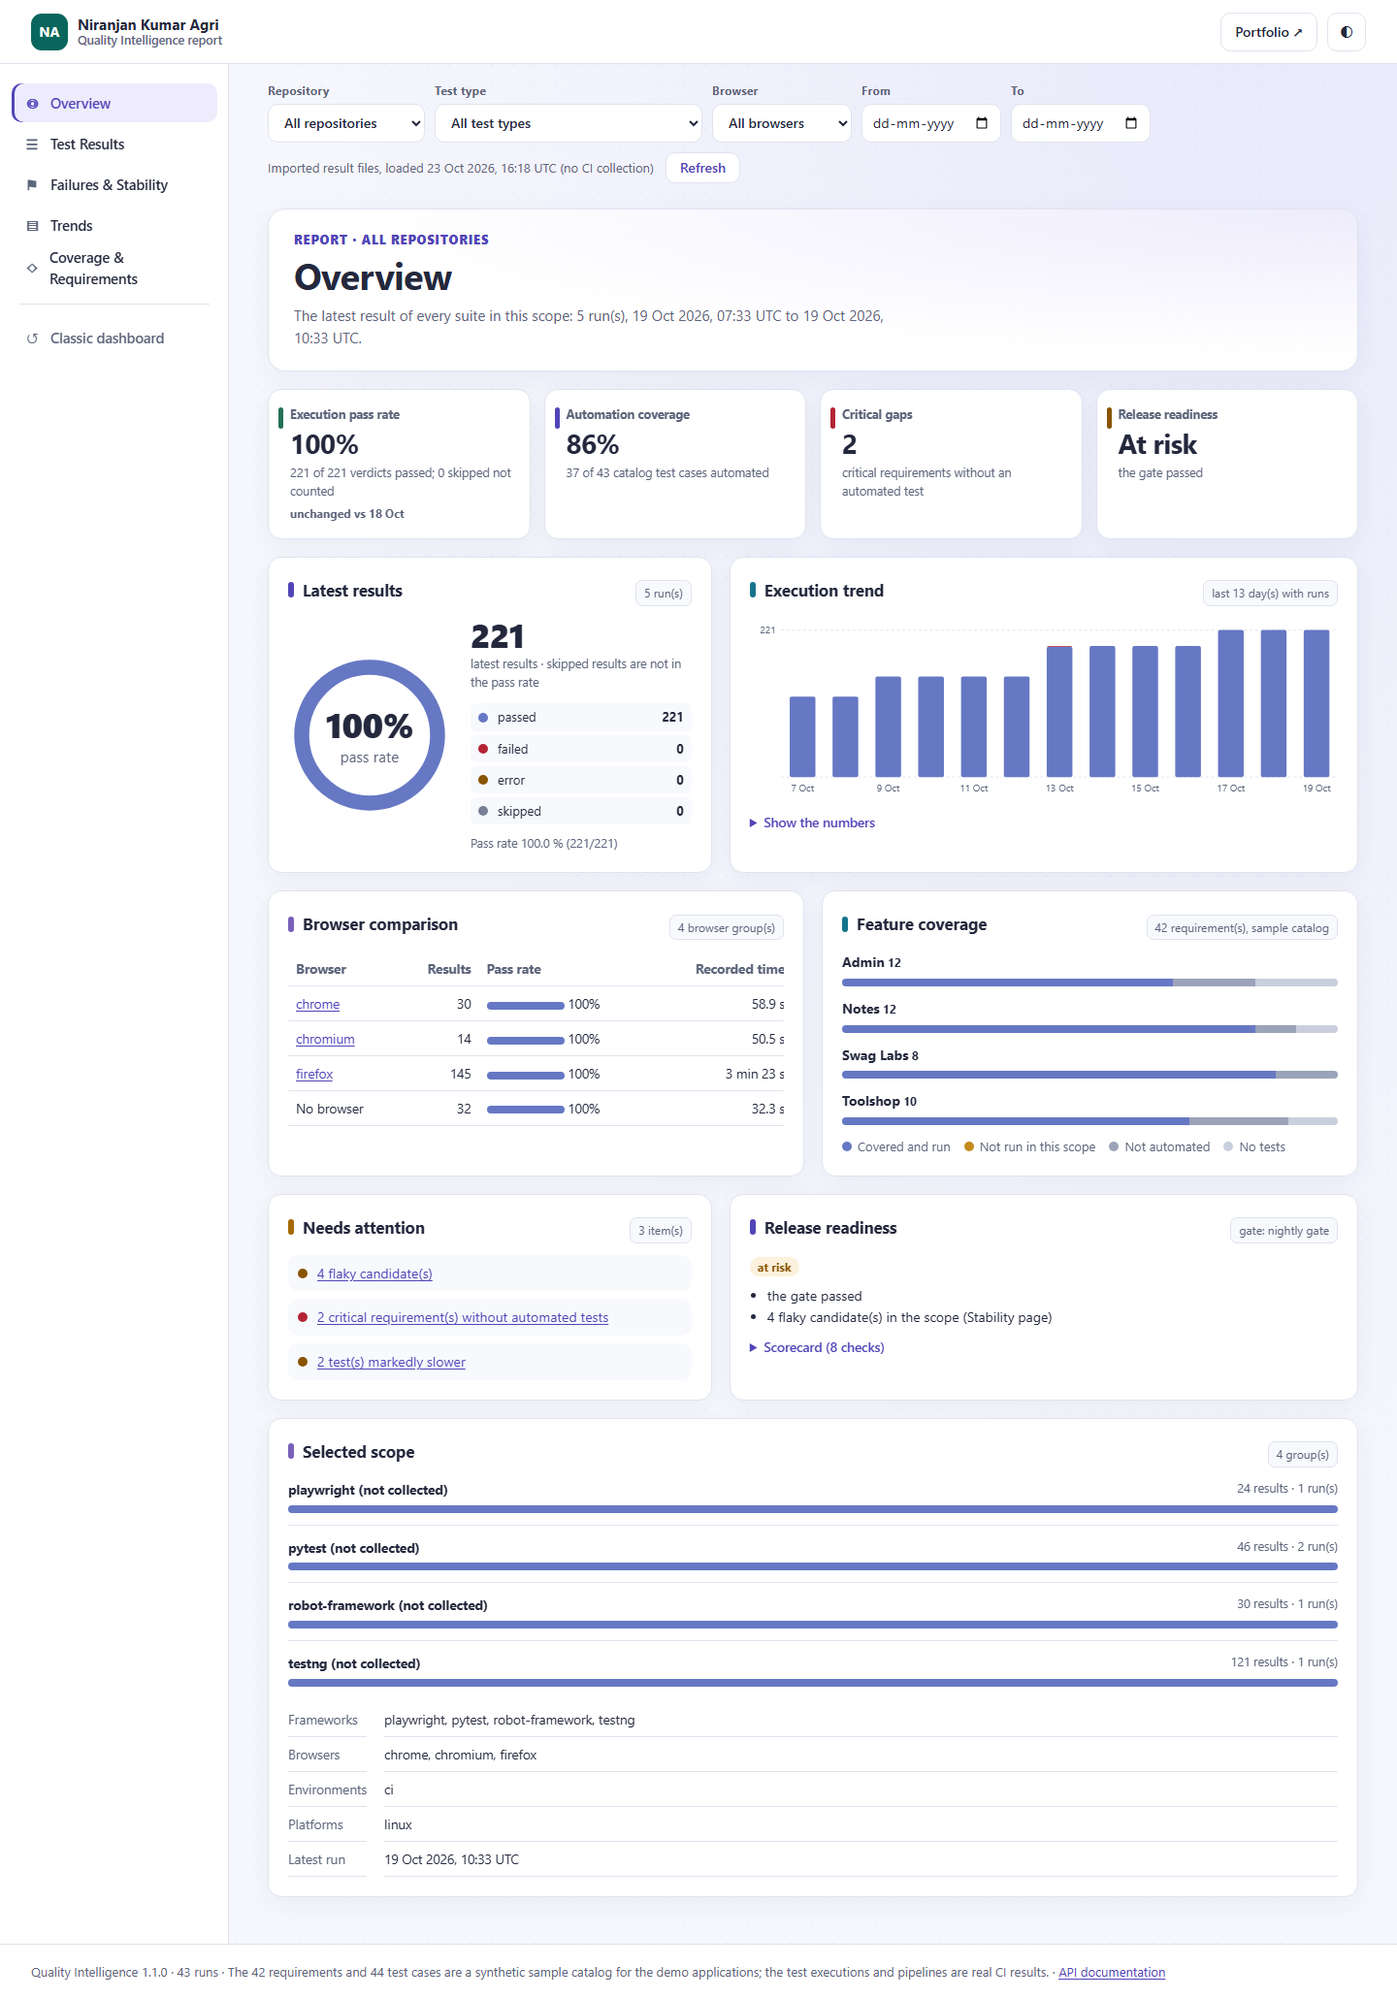
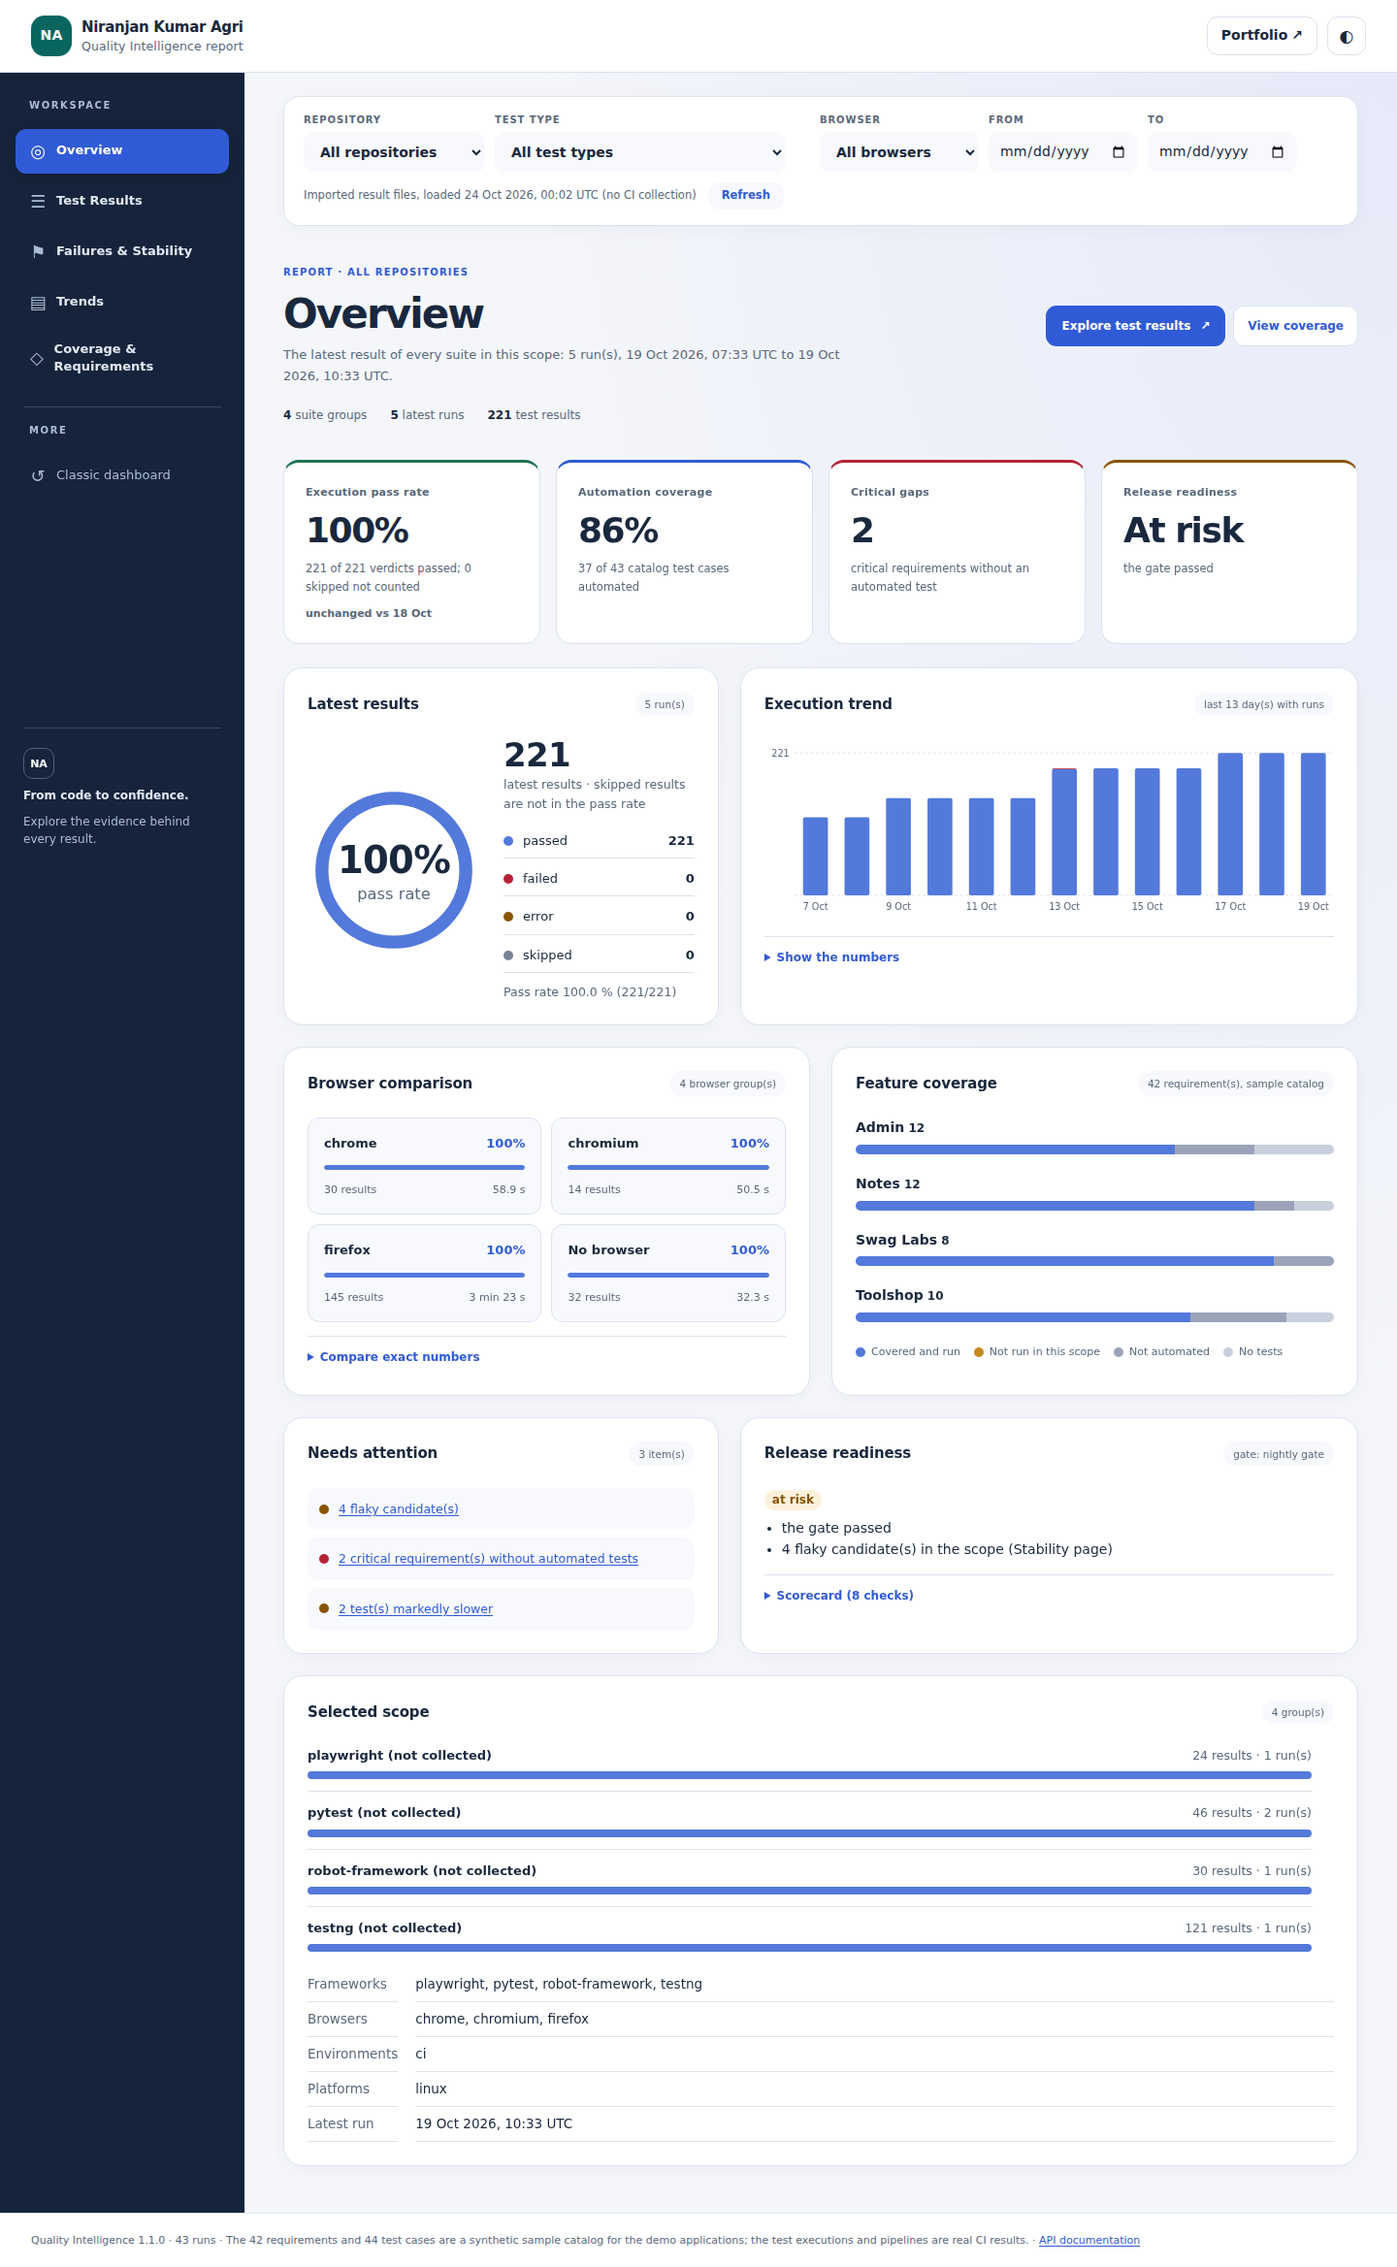
Refresh report workspace design and visual browser exploration

diff --git a/src/qualityintel/dashboard/static/next/report.css b/src/qualityintel/dashboard/static/next/report.css
@@ -418,3 +418,123 @@ pre.evidence { border: 1px solid var(--line); border-radius: var(--radius); }
   .skeleton { animation: shimmer 1.2s linear infinite; }
 }
 @keyframes shimmer { from { background-position: 200% 0; } to { background-position: -200% 0; } }
+
+/* ---- Workspace design: quiet surfaces, a navy rail and a clear reading order ---- */
+:root {
+  --bg: #f4f6fa; --ink: #19283d; --muted: #59687b; --line: #dce3ed;
+  --accent: #315bd6; --accent-soft: #edf2ff; --accent-line: #acbff5;
+  --chart-passed: #5379db; --cov-covered: #5379db;
+  --radius: 11px; --radius-lg: 20px; --gap: 22px; --pad: 24px;
+  --shadow: 0 4px 18px rgba(25, 40, 61, .035);
+  --rail: #15243b; --rail-ink: #e1e8f4; --rail-muted: #aabbd2;
+}
+body { background: radial-gradient(ellipse at 100% 0, var(--glow), transparent 45%), var(--bg); }
+.topbar { min-height: 74px; padding-block: 16px; }
+.brand { letter-spacing: -.02em; }
+.brand-mark { width: 42px; height: 42px; border-radius: 14px; }
+.brand-sub { margin-top: 3px; letter-spacing: .01em; }
+.layout { grid-template-columns: 252px minmax(0, 1fr); background: linear-gradient(to right, var(--rail) 252px, transparent 252px); min-height: calc(100vh - 74px); }
+.sidebar { top: 74px; height: calc(100vh - 74px); padding: 26px 16px; gap: 6px; }
+.nav-caption { color: var(--rail-muted); font-size: 10px; letter-spacing: .16em; font-weight: 750; padding: 0 14px 10px; }
+.sidebar a { color: var(--rail-ink); padding: 10px 14px; min-height: 46px; font-size: 13px; line-height: 1.4; }
+.sidebar a:hover { background: #223650; }
+.sidebar a[aria-current="page"] { color: #fff; background: #315bd6; box-shadow: 0 4px 16px rgba(0, 0, 0, .12); }
+.sidebar .nav-icon { color: var(--rail-muted); font-size: 18px; }
+.sidebar a[aria-current="page"] .nav-icon { color: #fff; }
+.sidebar .sidebar-quiet { color: var(--rail-muted); }
+.sidebar-rule { background: #34465f; margin-block: 16px 10px; }
+.sidebar-note { margin: auto 8px 0; padding: 20px 0 0; border-top: 1px solid #34465f; display: grid; gap: 8px; color: var(--rail-muted); font-size: 12px; }
+.sidebar-note strong { color: var(--rail-ink); font-size: 12px; }
+.sidebar-note-mark { display: grid; place-items: center; width: 32px; height: 32px; border: 1px solid #52617a; border-radius: 10px; font-size: 11px; font-weight: 750; color: #fff; }
+.sidebar { grid-template-rows: auto repeat(5, min-content) auto auto auto 1fr; }
+.sidebar-note { align-self: end; }
+.filterbar { margin: 24px clamp(16px, 3vw, 40px) 20px; padding: 16px 20px; border: 1px solid var(--line); border-radius: 16px; background: var(--surface); box-shadow: var(--shadow); }
+.field-label { font-size: 10px; text-transform: uppercase; letter-spacing: .09em; }
+.field select, .field input { background: var(--surface-3); border-color: transparent; min-height: 42px; }
+.field select:focus-visible, .field input:focus-visible { border-color: var(--accent); }
+.freshness { font-size: 11.5px; }
+.freshness .button-quiet { min-height: 28px; font-size: 11.5px; border: 0; background: var(--surface-3); }
+.report-heading { box-shadow: none; border: 0; background: none; padding: 8px 0 18px; margin-bottom: 4px; }
+.eyebrow { font-size: 10px; letter-spacing: .12em; margin-bottom: 12px; }
+h1 { font-size: clamp(28px, 3.1vw, 42px); letter-spacing: -.045em; }
+.report-heading .lead { font-size: 13px; line-height: 1.7; max-width: 70ch; }
+.overview-heading { display: grid; grid-template-columns: minmax(0, 1fr) auto; align-items: center; gap: 20px; }
+.hero-actions { display: flex; flex-wrap: wrap; gap: 8px; }
+.hero-actions .button, .hero-actions .button-quiet { min-height: 42px; font-size: 12px; }
+.hero-actions .button { gap: 10px; }
+.snapshot-strip { grid-column: 1 / -1; display: flex; flex-wrap: wrap; gap: 10px 24px; padding-bottom: 14px; color: var(--muted); font-size: 12px; }
+.snapshot-strip strong { color: var(--ink); font-variant-numeric: tabular-nums; }
+.kpis { gap: 16px; margin-bottom: 24px; }
+.kpi { padding: 22px; gap: 10px; border-radius: 16px; box-shadow: none; border-top: 3px solid var(--tone, var(--accent)); }
+.kpi::before { display: none; }
+.kpi-value { font-size: clamp(26px, 2.5vw, 36px); letter-spacing: -.04em; }
+.kpi-label { font-size: 11px; letter-spacing: .025em; }
+.kpi-sub { font-size: 11.5px; line-height: 1.6; }
+.kpi-change { font-size: 11px; }
+.card-head { align-items: center; margin-bottom: 22px; }
+.card-head h2 { font-size: 15px; }
+.card-head h2::before { display: none; }
+.card-head .meta { font-size: 10.5px; background: var(--surface-3); border: 0; border-radius: 999px; padding: 5px 10px; }
+.summary { gap: 24px; }
+.ring { width: 178px; height: 178px; }
+.ring circle { stroke-width: 9; }
+.legend li a { background: none; border-bottom: 1px solid var(--line); border-radius: 0; padding: 7px 0; }
+.legend li a:hover { background: var(--accent-soft); }
+.browser-cards { display: grid; grid-template-columns: repeat(2, minmax(0, 1fr)); gap: 10px; }
+.browser-card { display: grid; gap: 12px; align-content: start; padding: 16px; border: 1px solid var(--line); background: var(--surface-3); border-radius: 12px; text-decoration: none; color: var(--ink); min-width: 0; }
+a.browser-card:hover { border-color: var(--accent-line); background: var(--accent-soft); }
+.browser-card-top, .browser-card-meta { display: flex; flex-wrap: wrap; justify-content: space-between; gap: 4px 12px; }
+.browser-card-top { font-size: 13px; }
+.browser-rate { font-weight: 750; color: var(--accent); }
+.browser-card-meta { font-size: 11px; color: var(--muted); font-variant-numeric: tabular-nums; }
+.browser-progress { display: block; height: 5px; background: var(--line); border-radius: 999px; overflow: hidden; }
+.browser-progress-fill { display: block; height: 100%; border-radius: inherit; background: var(--chart-passed); }
+details.numbers { padding-top: 12px; margin-top: 14px; border-top: 1px solid var(--line); }
+details.numbers > summary { font-size: 12px; }
+.feature-bars { gap: 20px; }
+.feature-bars .stack { height: 10px; }
+.legend-inline { margin-top: 22px; }
+.legend-inline li { font-size: 11px; }
+.attention li { padding: 12px; font-size: 12.5px; }
+.suites { max-height: 360px; overflow-y: auto; scrollbar-gutter: stable; padding-right: 8px; }
+.suite-name { font-size: 13px; }
+.footer { font-size: 11px; line-height: 1.8; }
+@media (prefers-color-scheme: dark) {
+  :root:not([data-theme="light"]) { --bg: #111b2b; --ink: #eef3fb; --muted: #b5c2d7; --line: #34445d; --accent: #adc4ff; --accent-soft: #273958; --accent-line: #657da6; --chart-passed: #91b4ff; --cov-covered: #91b4ff; --rail: #0c1524; }
+}
+:root[data-theme="dark"] { --bg: #111b2b; --ink: #eef3fb; --muted: #b5c2d7; --line: #34445d; --accent: #adc4ff; --accent-soft: #273958; --accent-line: #657da6; --chart-passed: #91b4ff; --cov-covered: #91b4ff; --rail: #0c1524; }
+@media (max-width: 1250px) {
+  .overview-heading { grid-template-columns: minmax(0, 1fr); gap: 12px; }
+}
+@media (max-width: 1100px) {
+  .summary { grid-template-columns: auto minmax(0, 1fr); }
+}
+@media (max-width: 820px) {
+  .layout { grid-template-columns: minmax(0, 1fr); background: none; }
+  .sidebar { top: 74px; height: auto; display: flex; padding: 8px 12px; background: var(--rail); border-bottom: 0; }
+  .sidebar a { min-height: 40px; padding: 8px 12px; }
+  .sidebar-note, .nav-caption { display: none; }
+  .filterbar { margin-top: 16px; }
+}
+@media (max-width: 600px) {
+  .topbar { gap: 8px; padding: 12px 16px; min-height: 74px; }
+  .brand { font-size: 12px; gap: 8px; }
+  .brand-mark { width: 34px; height: 34px; border-radius: 11px; font-size: 12px; }
+  .topbar-tools { gap: 6px; }
+  .pill-link { padding: 0 8px; font-size: 11px; }
+  .round { width: 36px; min-height: 36px; }
+  .filterbar { padding: 12px; margin-bottom: 12px; }
+  .kpis { grid-template-columns: repeat(2, minmax(0, 1fr)); gap: 10px; }
+  .kpi { padding: 14px; gap: 8px; }
+  .kpi-value { font-size: 24px; overflow-wrap: anywhere; }
+  .kpi-label { font-size: 10px; }
+  .kpi-sub { font-size: 10.5px; }
+  .kpi-change { font-size: 10px; }
+  .summary { grid-template-columns: minmax(0, 1fr); }
+  .ring { width: 160px; height: 160px; }
+  .snapshot-strip { gap: 8px 16px; font-size: 11px; }
+  .browser-cards { grid-template-columns: minmax(0, 1fr); }
+  .card { padding: 20px; }
+  .report-heading { padding: 8px 0 14px; }
+  .card-head { margin-bottom: 18px; }
+}

diff --git a/src/qualityintel/dashboard/static/next/js/overview.js b/src/qualityintel/dashboard/static/next/js/overview.js
@@ -30,13 +30,20 @@ export async function overview(state, { signal, facts }) {
     : null;
 
   return [
-    h("div", { class: "report-heading" },
+    h("div", { class: "report-heading overview-heading" },
       h("div", {},
         h("p", { class: "eyebrow" }, `Report · ${repoName(scope.repository)}${scope.kind ? ` · ${KIND_LABELS[scope.kind] ?? scope.kind}` : ""}`),
         h("h1", {}, "Overview"),
         h("p", { class: "lead" }, d.first_started_at
           ? `The latest result of every suite in this scope: ${n(d.runs)} run(s), ${formatDate(d.first_started_at)} to ${formatDate(d.latest_started_at)}.`
-          : "No dated runs in this scope."))),
+           : "No dated runs in this scope.")),
+      h("div", { class: "hero-actions" },
+        h("a", { class: "button", href: href("results", scope) }, "Explore test results", h("span", { "aria-hidden": "true" }, " ↗")),
+        h("a", { class: "button-quiet", href: href("coverage", scope) }, "View coverage")),
+      h("div", { class: "snapshot-strip", role: "group", "aria-label": "Snapshot scope" },
+        h("span", {}, h("strong", {}, n(d.suites.length)), " suite groups"),
+        h("span", {}, h("strong", {}, n(d.runs)), " latest runs"),
+        h("span", {}, h("strong", {}, n(d.total)), " test results"))),
     nothing,
     headline(d, summary, readiness, scope),
     h("div", { class: "grid" },
@@ -150,7 +157,21 @@ function trendCard(points, scope) {
 function browsersCard(browsers, scope) {
   return card("browsers-title", "Browser comparison", `${browsers.length} browser group(s)`,
     browsers.length
-      ? h("div", { class: "table-wrap" }, h("table", { class: "compare" },
+      ? [h("div", { class: "browser-cards" }, browsers.map((b) => {
+          const bar = h("span", { class: "browser-progress-fill" });
+          bar.style.width = `${b.pass_rate.percent ?? 0}%`;
+          const content = [
+            h("span", { class: "browser-card-top" }, h("strong", {}, b.browser ?? "No browser"), h("span", { class: "browser-rate" }, percent(b.pass_rate))),
+            h("span", { class: "browser-progress", "aria-hidden": "true" }, bar),
+            h("span", { class: "browser-card-meta" }, `${n(b.total)} results`, h("span", {}, b.duration_seconds === null ? "time not recorded" : clock(b.duration_seconds))),
+            b.untimed ? h("small", { class: "sub" }, `${n(b.untimed)} without recorded duration`) : null,
+          ];
+          return b.browser
+            ? h("a", { class: "browser-card", href: href("results", { ...without(scope, "browser"), browser: b.browser }), "aria-label": `${b.browser}: ${n(b.total)} results, ${percent(b.pass_rate)} pass rate` }, content)
+            : h("div", { class: "browser-card" }, content);
+        })),
+        h("details", { class: "numbers" }, h("summary", {}, "Compare exact numbers"),
+        h("div", { class: "table-wrap" }, h("table", { class: "compare" },
           h("thead", {}, h("tr", {}, h("th", {}, "Browser"), h("th", { class: "num" }, "Results"), h("th", {}, "Pass rate"), h("th", { class: "num" }, "Recorded time"))),
           h("tbody", {}, browsers.map((b) => {
             const bar = h("span", { class: "meter-fill" });
@@ -160,7 +181,7 @@ function browsersCard(browsers, scope) {
               h("td", { class: "num" }, n(b.total)),
               h("td", {}, h("span", { class: "meter" }, bar), " ", percent(b.pass_rate)),
               h("td", { class: "num" }, b.duration_seconds === null ? "not recorded" : clock(b.duration_seconds), b.untimed && b.duration_seconds !== null ? h("small", { class: "sub" }, ` (${n(b.untimed)} untimed)`) : null));
-          }))))
+          })))))]
       : emptyState("no-match"),
     { class: "span-6 accent-purple" });
 }

diff --git a/src/qualityintel/dashboard/static/next/index.html b/src/qualityintel/dashboard/static/next/index.html
@@ -25,13 +25,16 @@
   </header>
   <div class="layout">
     <nav class="sidebar" aria-label="Report sections">
+      <div class="nav-caption">WORKSPACE</div>
       <a href="#/overview" data-section="overview"><span class="nav-icon" aria-hidden="true">◎</span>Overview</a>
       <a href="#/results" data-section="results"><span class="nav-icon" aria-hidden="true">☰</span>Test Results</a>
       <a href="#/failures" data-section="failures"><span class="nav-icon" aria-hidden="true">⚑</span>Failures &amp; Stability</a>
       <a href="#/trends" data-section="trends"><span class="nav-icon" aria-hidden="true">▤</span>Trends</a>
       <a href="#/coverage" data-section="coverage"><span class="nav-icon" aria-hidden="true">◇</span>Coverage &amp; Requirements</a>
       <span class="sidebar-rule" role="presentation"></span>
+      <div class="nav-caption">MORE</div>
       <a href="/" class="sidebar-quiet"><span class="nav-icon" aria-hidden="true">↺</span>Classic dashboard</a>
+      <div class="sidebar-note"><span class="sidebar-note-mark" aria-hidden="true">NA</span><strong>From code to confidence.</strong><span>Explore the evidence behind every result.</span></div>
     </nav>
     <div class="content">
       <div id="filters"></div>

diff --git a/tests/e2e/test_report_ui.py b/tests/e2e/test_report_ui.py
@@ -50,6 +50,20 @@ def test_the_overview_keeps_pass_rate_coverage_gaps_and_readiness_apart(page: Pa
     expect(page.locator(".compare tbody tr")).to_have_count(4)  # chrome, chromium, firefox, no browser
 
 
+def test_browser_cards_open_scoped_results_and_keep_exact_numbers(page: Page) -> None:
+    """Visual browser cards open their own results; the exact comparison remains available."""
+    page.goto("/next/#/overview")
+    heading(page, "Overview")
+    card = page.locator("a.browser-card").filter(has_text="chromium").first
+    expect(card).to_contain_text("results")
+    page.get_by_text("Compare exact numbers", exact=True).click()
+    expect(page.locator(".compare")).to_be_visible()
+    card.click()
+    heading(page, "Test Results")
+    expect(page).to_have_url(re.compile(r"browser=chromium"))
+    expect(page.get_by_role("button", name="Remove Browser chromium", exact=True)).to_be_visible()
+
+
 def test_the_donut_and_the_trend_open_the_matching_results(page: Page) -> None:
     """A status in the donut opens those results; a day of the trend opens that day's results."""
     page.goto("/next/#/overview")
@@ -299,7 +313,7 @@ def test_the_theme_button_works_like_the_portfolio(page: Page) -> None:
 
     expect(page.locator("html")).to_have_attribute("data-theme", "dark")
     expect(page.get_by_role("button", name="Use light theme")).to_be_visible()
-    assert page.evaluate("getComputedStyle(document.body).backgroundColor") == "rgb(20, 24, 39)"
+    assert page.evaluate("getComputedStyle(document.body).backgroundColor") == "rgb(17, 27, 43)"
 
 
 def test_keyboard_focus_is_visible_and_motion_can_be_reduced(page: Page) -> None:

diff --git a/docs/report-ui.md b/docs/report-ui.md
@@ -94,3 +94,15 @@ Slate surfaces and indigo interaction accents; the portfolio's teal only for its
 chart segments use a muted blue; failures stay red, errors amber and skips grey; green marks success.
 Counts and labels remain authoritative; colours do not change results or release decisions. Light,
 dark and system themes share one layout; motion only plays when the system allows it.
+
+### Workspace visual refresh
+
+A navy navigation rail frames bright, quiet content panels. The overview introduces the selected
+scope, then four independent metrics, results and trends. Browser comparison uses clickable
+progress cards with result counts and recorded durations; an expandable exact-number table stays
+available. Phone layouts use two compact metric columns and a horizontally scrolling section bar.
+The NA identity, theme preference, evidence links and scope semantics remain shared with the report.
+
+Deployment smoke has a 90-minute job budget: browser setup can take 45 minutes, and waking the
+service and waiting for the expected commit can each take 20. A skipped job is not evidence that
+the deployed report passed smoke; the live URL variable must be configured.
